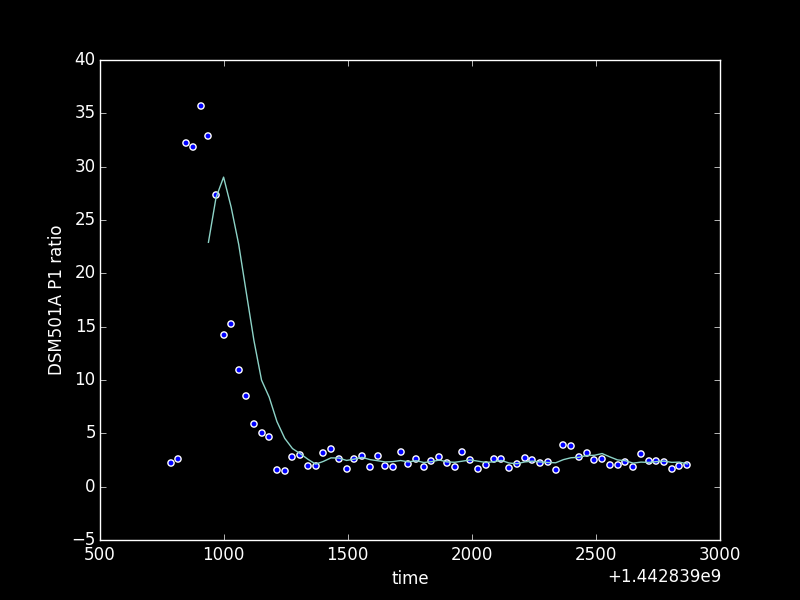
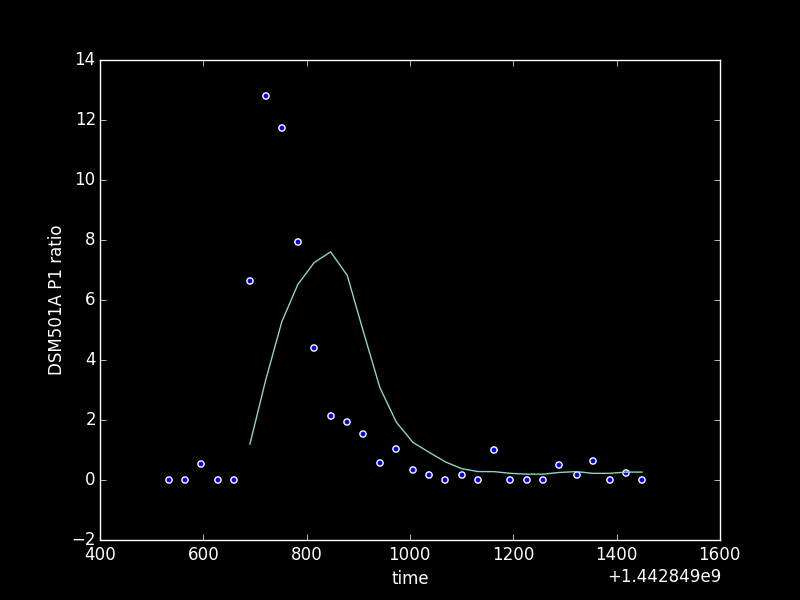
add some images and correlation data

diff --git a/testing/with fan/calibration--serial data/getSensorCorrelation.py b/testing/with fan/calibration--serial data/getSensorCorrelation.py
@@ -59,12 +59,12 @@ result = pd.concat(frames,axis=1)
 result.to_csv(path_or_buf='concatd data - 2015-08-' + day + '.csv', index=False)'''
 
 # for loading 2 single files
-arduinoDataFile = 'correlation data/2015-09-21 12-49-11 arduino data - dsm501a.csv'
-dylosDataFile = 'correlation data/2015-09-21 12-49-14 dylos data.csv'
+arduinoDataFile = 'correlation data/2015-09-21 15-31-39 arduino data.csv'
+dylosDataFile = 'correlation data/2015-09-21 15-31-37 dylos data.csv'
 
 arduinoData = pd.read_csv(arduinoDataFile)
-rawRollingArduinoP1Ratio = pd.rolling_mean(np.array(arduinoData['P1 ratio']), 1)
-rawRollingArduinoP2Ratio = pd.rolling_mean(np.array(arduinoData['P2 ratio']), 1)
+rawRollingArduinoP1Ratio = pd.rolling_mean(np.array(arduinoData['P1 ratio']), 2)
+rawRollingArduinoP2Ratio = pd.rolling_mean(np.array(arduinoData['P2 ratio']), 2)
 for each in range(len(rawRollingArduinoP1Ratio)):
     print rawRollingArduinoP1Ratio[each], arduinoData['P1 ratio'][each]
     if math.isnan(rawRollingArduinoP1Ratio[each]):
@@ -77,7 +77,7 @@ arduinoTime = [(parse(eachTime) - datetime(1970, 1, 1)).total_seconds() for each
 dylosTime = [(parse(eachTime) - datetime(1970, 1, 1)).total_seconds() for eachTime in dylosData['time (iso)']]
 
 interpArduinoTime = interp(dylosTime, arduinoTime, arduinoTime)#arduinoData['1um'])
-interpArduinoP1Ratio = interp(dylosTime, arduinoTime, rawRollingArduinoP1Ratio)
+interpArduinoP1Ratio = interp(dylosTime, arduinoTime, rawRollingArduinoP1Ratio)  
 interpArduinoP2Ratio = interp(dylosTime, arduinoTime, rawRollingArduinoP2Ratio)
 rollingArduinoP1Ratio = pd.rolling_mean(np.array(interpArduinoP1Ratio), 20)
 rollingArduinoP2Ratio = pd.rolling_mean(np.array(interpArduinoP2Ratio), 20)
